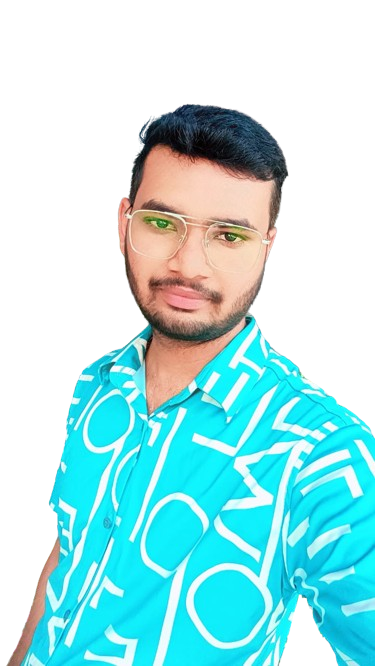
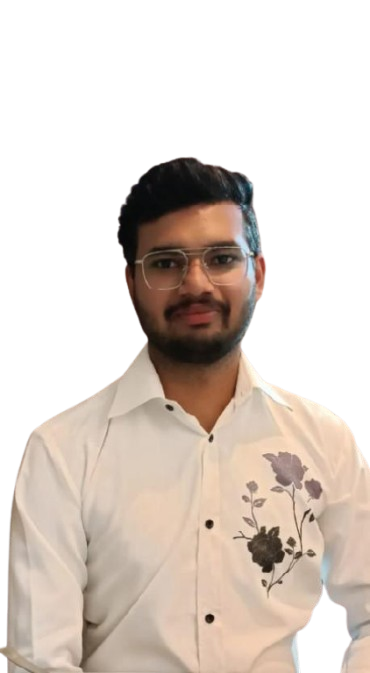
updated the resume new project added

diff --git a/index.html b/index.html
@@ -147,7 +147,7 @@
 						data-scrollax-parent="true">
 						<div class="one-third js-fullheight order-md-last img" style="">
 							<div class="overlay"></div>
-							<img src="images/qwe.png" alt="my image" height="700px" width="500px">
+							<img src="images/qwe.png" alt="my image" height="700px" width="400px">
 						</div>
 						<div class="one-forth d-flex  align-items-center ftco-animate"
 							data-scrollax=" properties: { translateY: '70%' }">
@@ -197,9 +197,9 @@
 								<br>
 								<br>
 								<h2>Software Engineer</h2>
-								<h2 class="d-flex" style="margin-bottom: 0"></h2>
+								<h2 class="d-flex" style="margin-bottom: 0; color:greenyellow">Open To Work</h2>
 								<br>
-								<p><a href="resume/HARSH-KUMAR-CV.pdf" download="resume/HARSH-KUMAR-CV.pdf"
+								<p><a href="resume/HARSH_KUMAR_SOFTWARE_ENGINEER.pdf" download="resume/HARSH_KUMAR_SOFTWARE_ENGINEER.pdf"
 										class="btn btn-primary py-3 px-4">CV Download</a>
 									<a href="https://github.com/Harsh33kumar"
 										class="btn btn-white btn-outline-white py-3 px-4">My Projects</a>
@@ -232,9 +232,9 @@
 									<div class="col-sm-6 col-md-7">
 										<div class="about-info">
 											<p><span class="title-s">Name: </span> <span>Harsh Kumar</span></p>
-											<p><span class="title-s">Job Role: </span> <span>Full Stack Developer</span>
+											<p><span class="title-s">Job Role: </span> <span>Software Engineer</span>
 											</p>
-											<p><span class="title-s">Experience: </span> <span>6 Months</span></p>
+											<p><span class="title-s">Experience: </span> <span>1+ Years</span></p>
 											<p><span class="title-s">Address: </span> <span>Punjab, India</span></p>
 										</div>
 									</div>
@@ -244,74 +244,34 @@
 									<p class="title-s">Skills</p>
 									<span>HTML5</span>
 									<br>
-									<!-- <span class="pull-right">90%</span> -->
-									<!-- <div class="progress">
-										<div class="progress-bar" role="progressbar" style="width: 95%;" aria-valuenow="95" aria-valuemin="0"
-											aria-valuemax="100"></div>
-									</div> -->
 
 									<span>CSS</span>
 									<br>
-									<!-- <span class="pull-right">90%</span> -->
-									<!-- <div class="progress">
-										<div class="progress-bar" role="progressbar" style="width: 95%;" aria-valuenow="95" aria-valuemin="0"
-											aria-valuemax="100"></div>
-									</div> -->
 
 									<span>JavaScript</span>
 									<br>
-									<!-- <span class="pull-right">90%</span> -->
-									<!-- <div class="progress">
-										<div class="progress-bar" role="progressbar" style="width: 90%" aria-valuenow="90" aria-valuemin="0"
-											aria-valuemax="100"></div>
-									</div> -->
 
 									<span>React.js</span>
 									<br>
-									<!-- <span class="pull-right">85%</span> -->
-									<!-- <div class="progress">
-										<div class="progress-bar" role="progressbar" style="width: 85%" aria-valuenow="85" aria-valuemin="0"
-											aria-valuemax="100"></div>
-									</div> -->
-
+									<span>Node.js</span>
+									<br>
+									<span>Express.js</span>
+									<br>
+									<span>MySql</span>
+									<br> <span>MongoDB</span>
+									<br>
 									<span>WordPress</span>
 									<br>
-									<!-- <span class="pull-right">85%</span> -->
-									<!-- <div class="progress">
-										<div class="progress-bar" role="progressbar" style="width: 85%" aria-valuenow="85" aria-valuemin="0"
-											aria-valuemax="100"></div>
-									</div> -->
-
 									<span>WooCommerce</span>
 									<br>
-									<!-- <span class="pull-right">85%</span> -->
-									<!-- <div class="progress">
-										<div class="progress-bar" role="progressbar" style="width: 85%" aria-valuenow="85" aria-valuemin="0"
-											aria-valuemax="100"></div>
-									</div> -->
 
 									<span>PHP</span>
 									<br>
-									<!-- <span class="pull-right">85%</span> -->
-									<!-- <div class="progress">
-										<div class="progress-bar" role="progressbar" style="width: 85%" aria-valuenow="85" aria-valuemin="0"
-											aria-valuemax="100"></div>
-									</div> -->
 
 									<span>Scss & Less</span>
 									<br>
-									<!-- <span class="pull-right">85%</span> -->
-									<!-- <div class="progress">
-										<div class="progress-bar" role="progressbar" style="width: 85%" aria-valuenow="85" aria-valuemin="0"
-											aria-valuemax="100"></div>
-									</div> -->
 									<span>Webpack & Gulp</span>
 									<br>
-									<!-- <span class="pull-right">85%</span> -->
-									<!-- <div class="progress">
-										<div class="progress-bar" role="progressbar" style="width: 85%" aria-valuenow="85" aria-valuemin="0"
-											aria-valuemax="100"></div>
-									</div> -->
 								</div>
 							</div>
 						</div>
@@ -331,7 +291,7 @@
 								</p>
 								<ul class="about-info mt-4 px-md-0 px-2">
 									<!-- <li class="d-flex"><span>Profile:</span> <span>Data Science &amp; Analytics</span></li> -->
-									<li class="d-flex"><span>Profile:</span> <span>Web Developer</span></li>
+									<li class="d-flex"><span>Profile:</span> <span>Full Stack Developer</span></li>
 									<!-- <li class="d-flex"><span>Domain:</span> <span>Retail, Ecommerce, BFSI &amp; Digital Marketing</span></li> -->
 									<li class="d-flex"><span>Education:</span> <span>B.Tech in CSE</span></li>
 									<li class="d-flex"><span>Language:</span> <span>English, Hindi, Punjabi</span></li>
@@ -401,7 +361,7 @@
 				</div>
 				<div class="col-md-6">
 					<div class="resume-wrap ftco-animate">
-						<span class="date">6 Months Internship</span>
+						<span class="date">01/2025-06/2025 Intern</span>
 						<h2>Web Development Internship</h2>
 						<span class="position">Hoping Minds (Mohali, Punjab)</span>
 						<p class="mt-4">
@@ -470,7 +430,7 @@
 						<div class="resume-wrap ftco-animate">
 							<span class="date">2019-2021</span>
 							<h2>Higher Secondary School</h2>
-							<span class="position">New St Sr.Senior Sec Public School</span>
+							<span class="position">New St Soldier Senior Sec Public School</span>
 							<!-- <p class="mt-4">Grade: First class distinction.</p> -->
 						</div>
 					</div>
@@ -488,7 +448,7 @@
 
 				<div class="row justify-content-center mt-5 mx-auto">
 					<div class="counter-wrap ftco-animate d-flex mt-md-3">
-						<p><a href="resume/HARSH-KUMAR-CV.pdf" download="resume/HARSH-KUMAR-CV.pdf"
+						<p><a href="resume/HARSH_KUMAR_SOFTWARE_ENGINEER.pdf" download="resume/HARSH_KUMAR_SOFTWARE_ENGINEER.pdf"
 								class="btn btn-primary py-4 px-5">Download CV</a></p>
 					</div>
 				</div>
@@ -550,8 +510,8 @@
 			</div>
 			<br>
 			<!-- added justify-content-center to center align the last two projects -->
-			<!-- <div class="row d-flex justify-content-center">
-				<div class="col-md-4 d-flex ftco-animate">
+			<div class="row d-flex justify-content-center">
+				<!-- <div class="col-md-4 d-flex ftco-animate">
 					<div class="blog-entry justify-content-end">
 						<a href="images/blockchain.png" target="_blank" class="block-20 zoom-effect"
 							style="background-image: url('images/blockchain.png');">
@@ -563,8 +523,8 @@
 							<p></p>
 						</div>
 					</div>
-				</div>
-				<div class="col-md-4 d-flex ftco-animate">
+				</div> -->
+				<!-- <div class="col-md-4 d-flex ftco-animate">
 					<div class="blog-entry justify-content-end">
 						<a href="images/fullstack1.jpg" target="_blank" class="block-20 zoom-effect"
 							style="background-image: url('images/fullstack1.jpg');">
@@ -575,8 +535,8 @@
 							<p></p>
 						</div>
 					</div>
-				</div>
-			</div> -->
+				</div> -->
+			</div>
 		</div>
 	</section>
 	<!-- -------------------------------------------------------------------------------------------------------------------------------------------->
@@ -635,30 +595,44 @@
 			</div>
 			<br>
 			<!-- added justify-content-center to center align the last two projects                            //comment it -->
-			<!-- <div class="row d-flex justify-content-center">
-				<div class="col-md-4 d-flex ftco-animate">
-					<div class="blog-entry justify-content-end">
-						<a href="#" class="block-20 zoom-effect" style="background-image: url('#');">
-						</a>
-						<div class="text mt-3 float-right d-block">
+<div class="row d-flex justify-content-center">
+	<div class="col-md-4 d-flex ftco-animate">
+		<div class="blog-entry justify-content-end">
+			<a href="https://mystore-frontend-z1mq.onrender.com" 
+			   class="block-20 zoom-effect"
+			   target="_blank"
+			   style="background-image: url('images/image.png');">
+			</a>
 
-							<h3 class="heading"><a href="#"></a></h3>
-							<p></p>
-						</div>
-					</div>
-				</div>
-				<div class="col-md-4 d-flex ftco-animate">
-					<div class="blog-entry justify-content-end">
-						<a href="#" class="block-20 zoom-effect" style="background-image: url('#');">
-						</a>
-						<div class="text mt-3 float-right d-block">
+			<div class="text mt-3 float-right d-block">
+				<h3 class="heading">
+					<a href="https://mystore-frontend-z1mq.onrender.com" target="_blank">
+						MY STORE E-COMMERCE WEBSITE - GO LIVE
+					</a>
+				</h3>
+			</div>
+		</div>
+	</div>
 
-							<h3 class="heading"><a href="#"></a></h3>
-							<p></p>
-						</div>
-					</div>
-				</div>
-			</div> -->
+	<div class="col-md-4 d-flex ftco-animate">
+		<div class="blog-entry justify-content-end">
+			<a href="https://noteapp-43af.onrender.com/" 
+			   class="block-20 zoom-effect"
+			   target="_blank"
+			   style="background-image: url('images/noteapp.png');">
+			</a>
+
+			<div class="text mt-3 float-right d-block">
+				<h3 class="heading">
+					<a href="https://noteapp-43af.onrender.com/" target="_blank">
+						NOTES APP - GO LIVE
+					</a>
+				</h3>
+			</div>
+		</div>
+	</div>
+</div>
+			</div>
 		</div>
 	</section>
 
@@ -671,43 +645,7 @@
 
 
 	<section class="ftco-section ftco-no-pt ftco-no-pb ftco-counter img" id="section-counter">
-		<!--<div class="container">
-		<div class="row d-md-flex align-items-center">
-          <div class="col-md d-flex justify-content-center counter-wrap ftco-animate">
-            <div class="block-18">
-              <div class="text">
-                <strong class="number" data-number="20">0</strong>
-                <span>Achievements</span>
-              </div>
-            </div>
-          </div>
-          <div class="col-md d-flex justify-content-center counter-wrap ftco-animate">
-            <div class="block-18">
-              <div class="text">
-                <strong class="number" data-number="30">0</strong>
-                <span>Projects</span>
-              </div>
-            </div>
-          </div>
-          <div class="col-md d-flex justify-content-center counter-wrap ftco-animate">
-            <div class="block-18">
-              <div class="text">
-                <strong class="number" data-number="1000">0</strong>
-                <span>Mentored Students</span>
-              </div>
-            </div>
-          </div>
-          <div class="col-md d-flex justify-content-center counter-wrap ftco-animate">
-            <div class="block-18">
-              <div class="text">
-                <strong class="number" data-number="500">0</strong>
-                <span>Cups of coffee</span>
-              </div>
-            </div>
-          </div>
-        </div>
-      </div>
-	 -->
+
 		<div class="ftco-section ftco-hireme img margin-top" style="background-image: url(images/bg_1.jpg)">
 
 			<div class="row justify-content-center">
@@ -753,7 +691,7 @@
 							<span class="icon-phone2"></span>
 						</div>
 						<h3 class="mb-4">Contact Number</h3>
-						<p><a href="tel://0101010101">+91 7529056986</a></p>
+					<p><a href="tel:+917529056986">+91 7529056986</a></p>
 					</div>
 				</div>
 				<div class="col-md-6 col-lg-3 d-flex ftco-animate">
@@ -762,7 +700,7 @@
 							<span class="icon-paper-plane"></span>
 						</div>
 						<h3 class="mb-4">Email Address</h3>
-						<p><a href="mailto:[email redacted]">[email redacted]</a></p>
+						<p><a href="mailto:[email redacted]">[email redacted]</a></p>
 					</div>
 				</div>
 				<div class="col-md-6 col-lg-3 d-flex ftco-animate">
@@ -771,7 +709,7 @@
 							<span class="icon-globe"></span>
 						</div>
 						<h3 class="mb-4">Download Resume</h3>
-						<p><a href="resume/HARSH-KUMAR-CV.pdf" download="resume/HARSH-KUMAR-CV.pdf">Resume Link</a></p>
+						<p><a href="resume/HARSH_KUMAR_SOFTWARE_ENGINEER.pdf" download="resume/HARSH_KUMAR_SOFTWARE_ENGINEER.pdf">Resume Link</a></p>
 					</div>
 				</div>
 